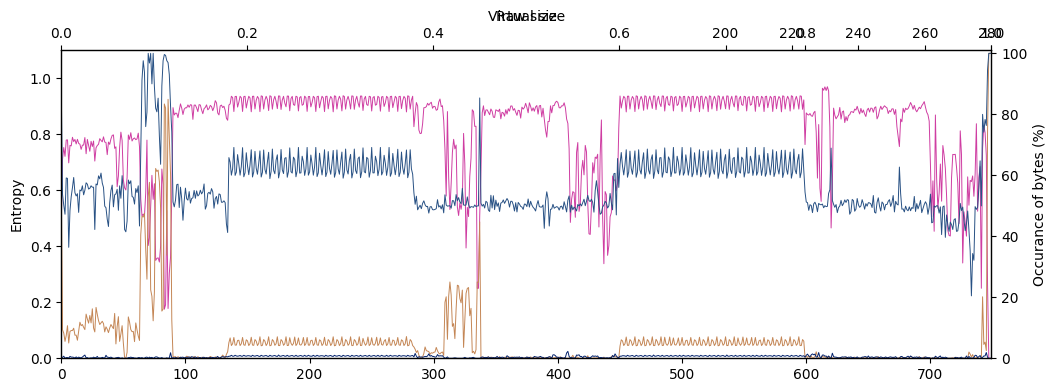
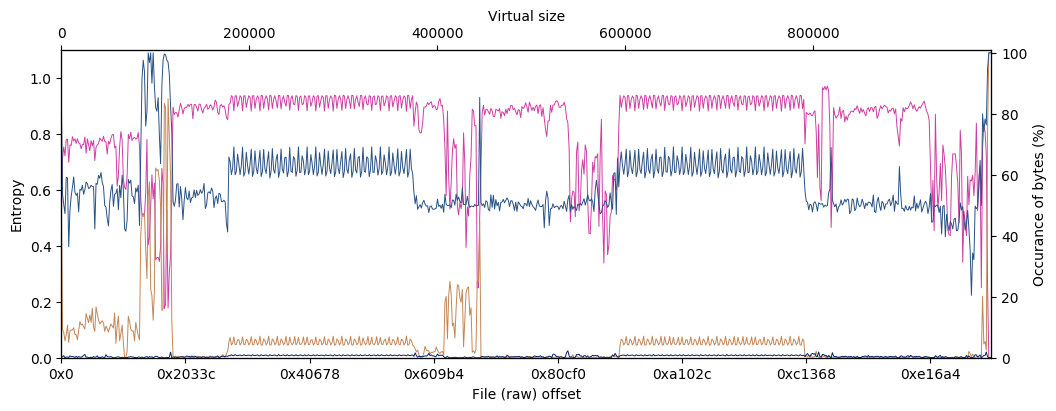
Working 3 axes
Need to work on the virtual offset

diff --git a/exeGraph_mpl.py b/exeGraph_mpl.py
@@ -10,6 +10,7 @@ import lief
 
 import matplotlib.pyplot as plt
 import matplotlib.patches as mpatches
+import matplotlib.ticker as ticker
 from matplotlib import colors
 from scipy.stats import entropy
 
@@ -44,22 +45,6 @@ def section_colour(text, multi=False):
     else:
         return colour_main
 
-    ## Other colour schemes
-
-    # name_colour = int('4'+hashlib.md5(text.encode('utf-8')).hexdigest()[:4], base=16)
-    # np.random.seed(int(name_colour))
-    # colour = np.random.rand(3,)
-    # return colour
-
-    # name_colour = int('1'+hashlib.md5(text.encode('utf-8')).hexdigest()[:4], base=16)
-    # np.random.seed(int(name_colour))
-    # colour = np.random.rand(3,)
-    # return colour
-
-    # name_colour = int(hashlib.md5(text.encode('utf-8')).hexdigest()[:4], base=16)
-    # np.random.seed(int(name_colour*255))
-    # colour = np.random.rand(3,)
-    # return colour
 
 # Some samples may have a corrupt section name (e.g. 206c0533ce9bf83ecdf904bec2f3532d)
 def fix_section_name(section, index):
@@ -252,18 +237,15 @@ def file_ent(binname, frmt='png', figname=None, figsize=(12,4), chunks=750, ibyt
     axEnt.set_xlim([0,len(shannon_samples)-1])
     axEnt.set_ylim([0, 1.1])
     axEnt.set_ylabel('Entropy')
-
-    # Set the bin raw size axes
-    axBinRaw = axEnt.twiny()
-    axBinRaw.set_xlabel('Raw size')
-    axBinRaw.set_xticks(list(range(200,300, 20)))
-
+    axEnt.set_xlabel('File (raw) offset')
+    axEnt.xaxis.set_major_formatter(ticker.FuncFormatter(lambda x, pos: ('0x%x') % (int(chunksize * x))))
 
     # Plot the individual byte percents
     if len(ibytes) > 0:
         axBytePc = axEnt.twinx()
         axBytePc.set_ylim([0, 101])
         axBytePc.set_ylabel('Occurance of bytes (%)')
+        axBytePc.yaxis.set_major_formatter(ticker.FuncFormatter(lambda x, pos: ('%i%%') % (x)))
 
         for label, percentages in byte_ranges.items():
             zorder -= zorder
@@ -271,19 +253,29 @@ def file_ent(binname, frmt='png', figname=None, figsize=(12,4), chunks=750, ibyt
             axBytePc.plot(percentages, label=label, c=c, zorder=zorder, linewidth=0.7)
 
 
-    exebin = lief.parse(filepath=filename)
-    if type(exebin) == lief.PE.Binary:
+    # Filetype specific additions
+    # exebin = lief.parse(filepath=filename)
+    # if type(exebin) == lief.PE.Binary:
 
-        axPEvirt = axEnt.twiny()
-        axPEvirt.set_xlabel('Virtual size')
+    #     # Set the virtual size axis
+    #     axPEvirt = axEnt.twiny()
+    #     axPEvirt.set_xlim([0,exebin.virtual_size+0x0400000])
+    #     axPEvirt.set_xlabel('Base address (virtual)')
+    #     axPEvirt.xaxis.set_major_formatter(ticker.FuncFormatter(lambda x, pos: ('0x%x') % (int(x+0x0400000))))
 
-        # # entrypoint pointer and line
-        # ep = exebin.entrypoint
-        # ep_x = -(-ep // fs)
 
-        # ax.annotate('EP', xy=(ep_x, 1), xytext=(ep_x, 1.08),
-        #     arrowprops=dict(facecolor='black', shrink=0.1),
-        # )
+    #     # # entrypoint pointer and line
+    #     ep = exebin.entrypoint
+    #     ep_x = -(-ep // exebin.virtual_size)
+
+    #     axEnt.axvline(x=exebin.virtual_size/750, linestyle='--', c=section_colour('EP'))
+    #     axEnt.text(x=exebin.virtual_size/750, y=1.05, s='EP', rotation=90)
+
+
+    #     for section in exebin.sections:
+
+    #         axEnt.axvline(x=section.pointerto_raw_data/750, label=section.name, linestyle='--')
+    #         axEnt.text(x=section.pointerto_raw_data/750, y=1.05, s=section.name, rotation=90)
 
 
     else:
@@ -299,6 +291,9 @@ def file_ent(binname, frmt='png', figname=None, figsize=(12,4), chunks=750, ibyt
     # plt.legend(loc='center left', bbox_to_anchor=(1, 0.5))
 
 
+    logo = plt.imread('cape.png')
+    fig.figimage(logo, 1020, 350, alpha=.5, zorder=99)
+
     plt.savefig(fname=figname, format=frmt, bbox_inches='tight')
 
 
@@ -312,7 +307,7 @@ if __name__ == '__main__':
     # filename='mal/Win32.Sofacy.A.bin.mal'
     # filename='mal/upxed.exe'
     # filename='mal/cape-9480-d746baede2c7'
-    # filename='mal/cape-9472-d69be688e'
+    filename='mal/cape-9472-d69be688e'
     # filename='/bin/bash'
 
 
